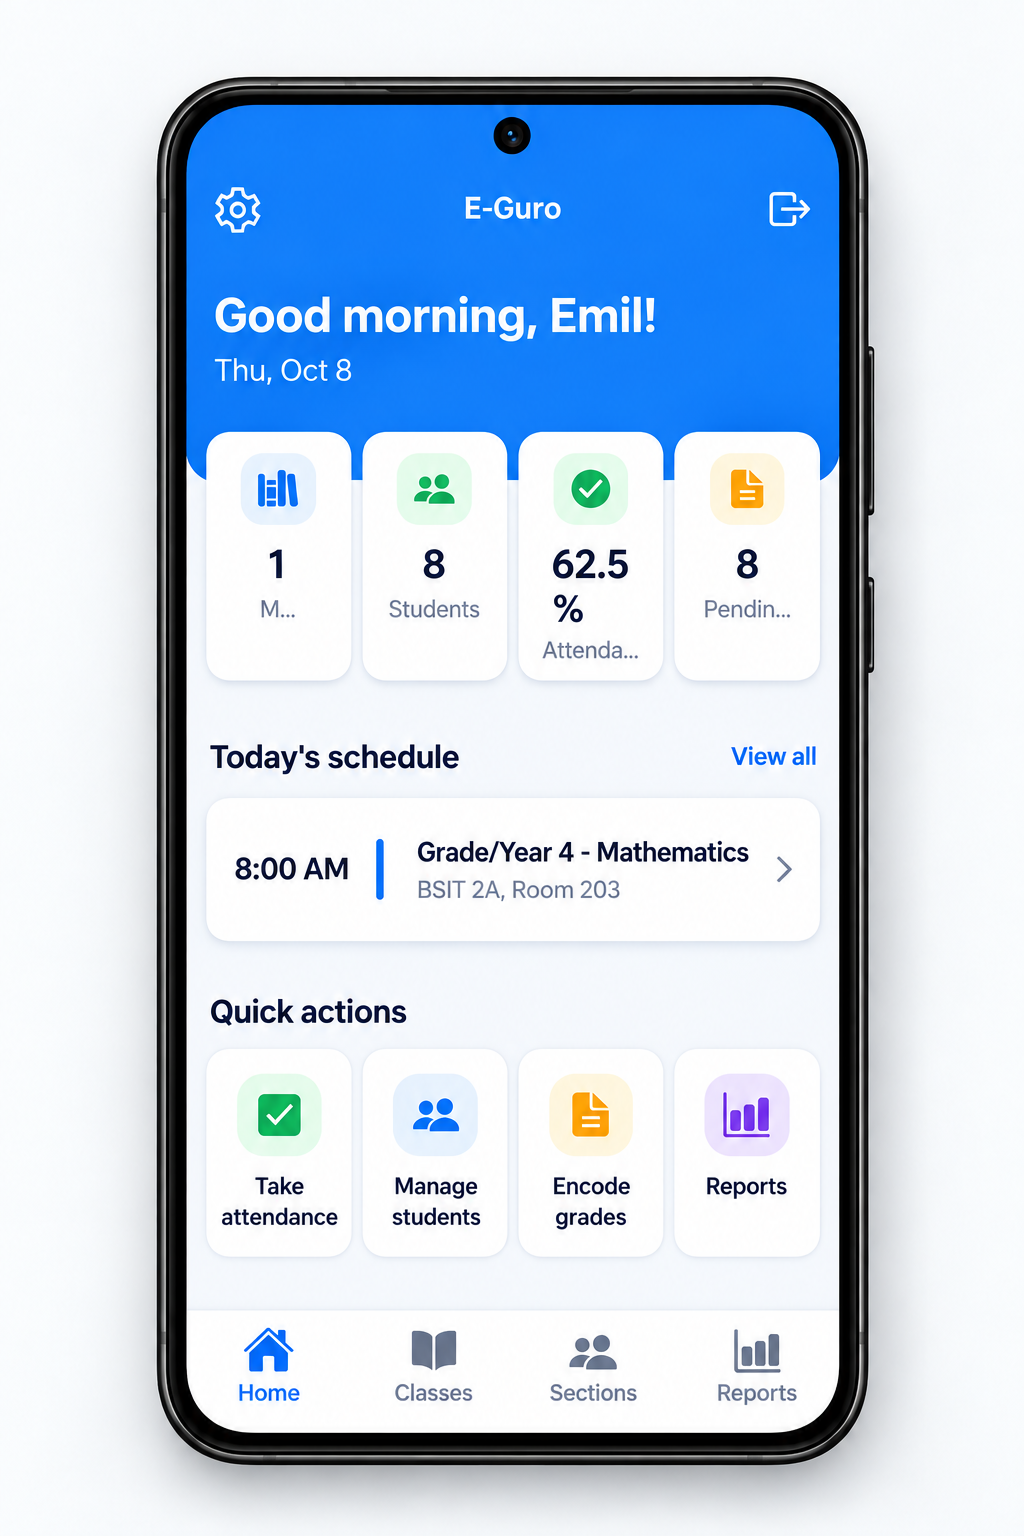
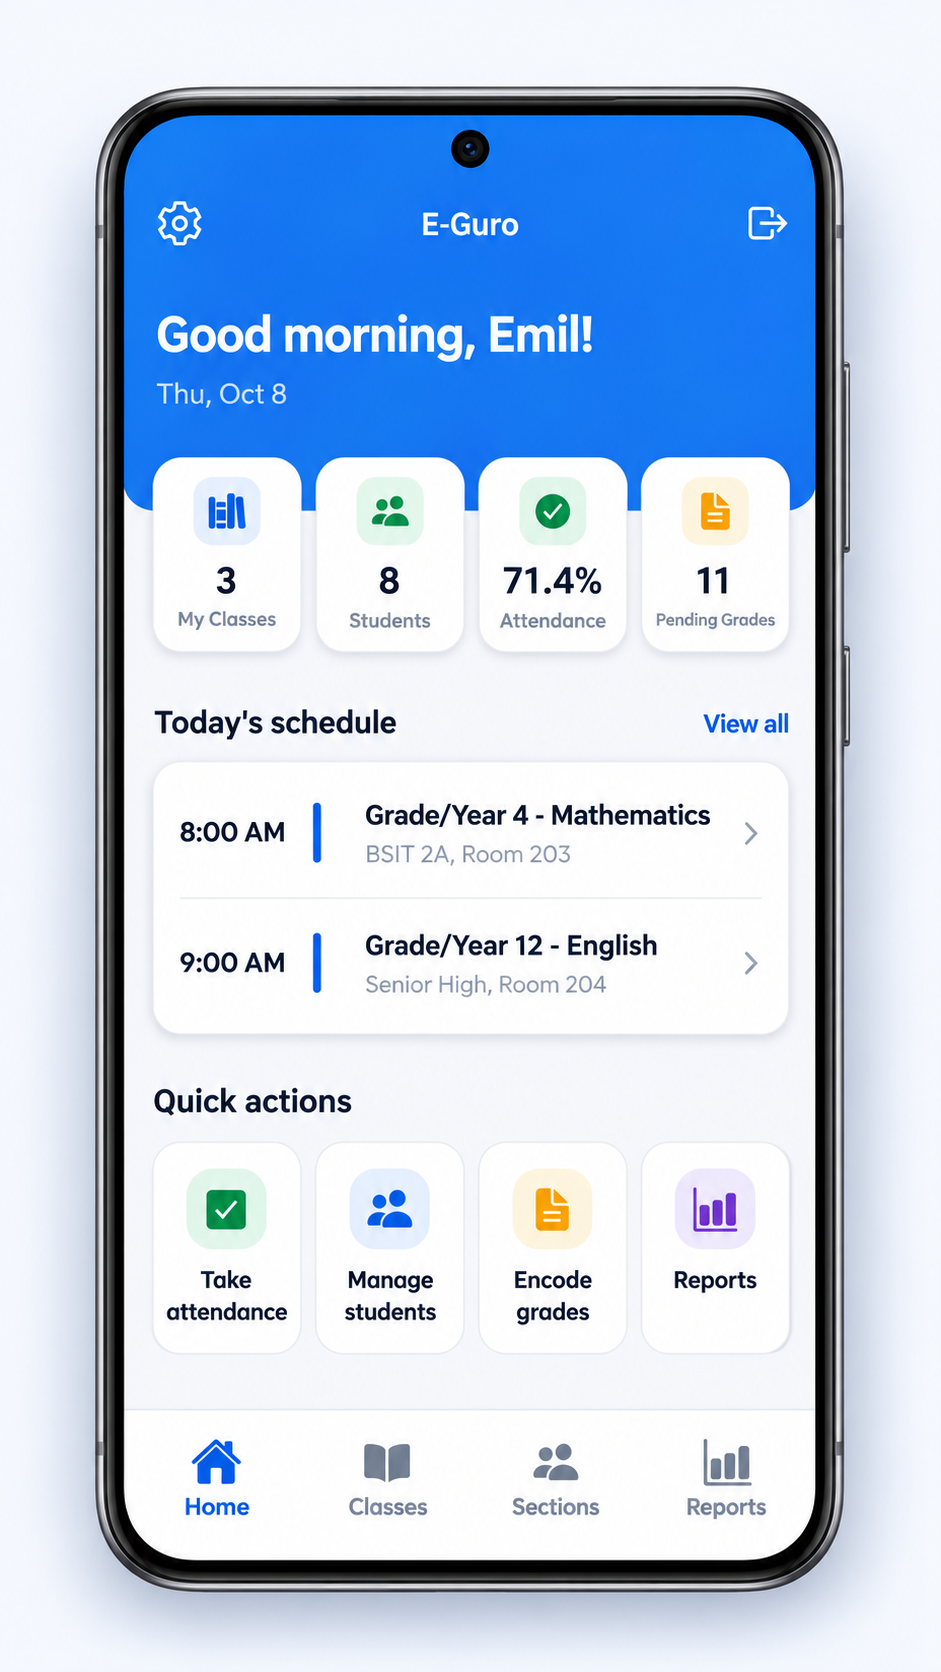
replace e-guro-app assets

Changed region(s): [[0.0616, 0.0312, 0.9554, 0.9688], [0.5239, 0.6875, 0.6472, 0.8125], [0.4315, 0.125, 0.5547, 0.1562]]

diff --git a/src/projects.js b/src/projects.js
@@ -1,36 +1,49 @@
-import eGuro01 from '../assets/images/e-guro-app/1.png'
-import eGuro02 from '../assets/images/e-guro-app/2.png'
-import eGuro03 from '../assets/images/e-guro-app/3.png'
-import eGuro04 from '../assets/images/e-guro-app/4.png'
-import eGuro05 from '../assets/images/e-guro-app/5.png'
-import eGuro06 from '../assets/images/e-guro-app/6.png'
-import eGuro07 from '../assets/images/e-guro-app/7.png'
+import eGuro01 from "../assets/images/e-guro-app/1.png";
+import eGuro02 from "../assets/images/e-guro-app/2.png";
+import eGuro03 from "../assets/images/e-guro-app/3.png";
+import eGuro04 from "../assets/images/e-guro-app/4.png";
+import eGuro05 from "../assets/images/e-guro-app/5.png";
+import eGuro06 from "../assets/images/e-guro-app/6.png";
+import eGuro07 from "../assets/images/e-guro-app/7.png";
+import eGuro08 from "../assets/images/e-guro-app/8.png";
+import eGuro09 from "../assets/images/e-guro-app/9.png";
 
 // Add, remove, or edit project cards here. Replace "#" with your real links.
 export const projects = [
   {
-    number: '01',
-    title: 'E-Guro',
-    summary: 'A mobile classroom companion designed to help independent teachers manage classes, students, attendance, grades, and reports in one organized place.',
-    tags: ['React Native', 'Mobile', 'Education'],
-    link: 'https://drive.google.com/file/d/1iX4IDaCKK-tKjVjh2LvYfhVpYdK2j9Uk/view?usp=sharing',
-    tone: 'lime',
-    images: [eGuro01, eGuro02, eGuro03, eGuro04, eGuro05, eGuro06, eGuro07],
+    number: "01",
+    title: "E-Guro",
+    summary:
+      "A mobile classroom companion designed to help independent teachers manage classes, students, attendance, grades, and reports in one organized place.",
+    tags: ["React Native", "Mobile", "Education"],
+    link: "https://drive.google.com/file/d/1iX4IDaCKK-tKjVjh2LvYfhVpYdK2j9Uk/view?usp=sharing",
+    tone: "lime",
+    images: [
+      eGuro01,
+      eGuro02,
+      eGuro03,
+      eGuro04,
+      eGuro05,
+      eGuro06,
+      eGuro07,
+      eGuro08,
+      eGuro09,
+    ],
   },
   {
-    number: '02',
-    title: '',
-    summary: '',
-    tags: ['React', 'Web'],
-    link: '#',
-    tone: 'violet',
+    number: "02",
+    title: "",
+    summary: "",
+    tags: ["React", "Web"],
+    link: "#",
+    tone: "violet",
   },
   {
-    number: '03',
-    title: '',
-    summary: '',
-    tags: ['Next Project', '2026'],
-    link: '#',
-    tone: 'orange',
+    number: "03",
+    title: "",
+    summary: "",
+    tags: ["Next Project", "2026"],
+    link: "#",
+    tone: "orange",
   },
-]
+];

diff --git a/src/styles.css b/src/styles.css
@@ -130,9 +130,10 @@ h1 { margin: 0; line-height: .84; letter-spacing: -.075em; }
 .gallery-frame img.next { z-index: 2; left: 84%; opacity: .55; transform: translateX(-50%) scale(.77) rotate(4deg); }
 .gallery-controls { position: relative; z-index: 5; min-height: 48px; display: grid; grid-template-columns: auto 1fr auto; align-items: center; gap: 20px; }
 .gallery-buttons { display: flex; gap: 7px; }
-.gallery-buttons button { width: 45px; height: 45px; padding: 0; border: 1px solid rgba(17,17,15,.35); display: grid; place-items: center; color: var(--ink); background: rgba(255,255,255,.55); cursor: pointer; transition: color .2s, background .2s, transform .2s; }
+.gallery-buttons button { width: 45px; height: 45px; padding: 0; border: 1px solid rgba(17,17,15,.35); display: grid; place-items: center; color: var(--ink); background: rgba(255,255,255,.55); cursor: pointer; transition: color .2s, background .2s; }
 .gallery-buttons button span { transform: translateY(-1px); }
-.gallery-buttons button:hover { color: white; background: var(--ink); transform: translateY(-2px); }
+.gallery-buttons button:hover { color: white; background: var(--ink); }
+.gallery-buttons button:active { transform: none; }
 .gallery-dots { display: flex; justify-content: center; gap: 8px; }
 .gallery-dots button { width: 7px; height: 7px; padding: 0; border: 0; border-radius: 50%; background: rgba(17,17,15,.25); cursor: pointer; transition: width .2s, border-radius .2s, background .2s; }
 .gallery-dots button.active { width: 24px; border-radius: 10px; background: var(--ink); }
